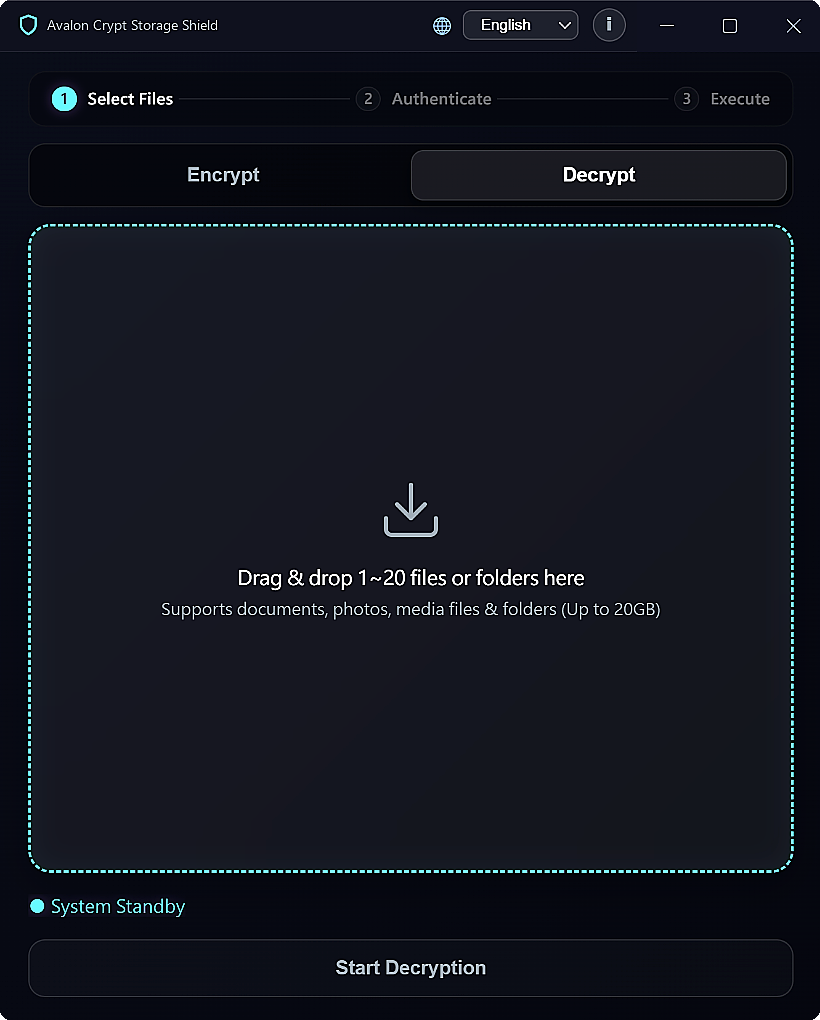
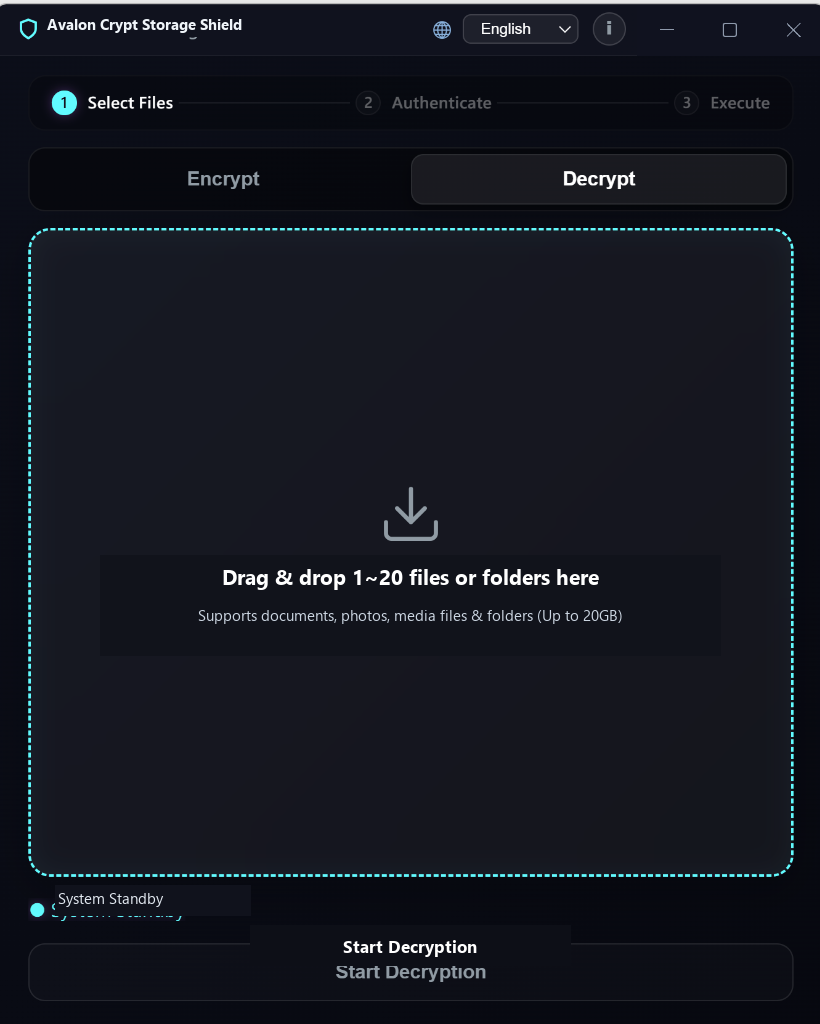
Add files via upload

diff --git a/index.html b/index.html
@@ -595,23 +595,6 @@
             opacity: 1;
         }
 
-        .window-tag {
-            text-align: center;
-            font-size: 0.75rem;
-            color: var(--cyan);
-            margin-top: 10px;
-            font-weight: 500;
-            display: flex;
-            align-items: center;
-            justify-content: center;
-            gap: 6px;
-            transition: color 0.3s ease;
-        }
-
-        .window-tag.purple-tag {
-            color: var(--purple);
-        }
-
         /* --- SECTION BASE STYLING --- */
         section {
             padding: 90px 0;
@@ -1117,6 +1100,14 @@
             .sha-info { justify-content: center; }
             .copy-btn { width: 100%; justify-content: center; }
         }
+            @media print {
+            body {
+                -webkit-print-color-adjust: exact !important;
+                print-color-adjust: exact !important;
+                background-color: #0a0e1a !important;
+                color: #ffffff !important;
+            }
+        }
     </style>
 </head>
 <body>
@@ -1225,13 +1216,10 @@
                             </button>
                         </div>
 
-                        <!-- 軟體實機視窗主體 (青軌英文 / 紫軌繁中，皆帶發光虛線框) -->
+                        <!-- 軟體實機視窗主體 (青軌英文 / 紫軌繁中，全亮虛線光框，無多餘底標) -->
                         <div class="app-window-frame cyan-glow" id="hero-window-frame">
                             <img id="hero-img-encrypt" class="hero-screen active" src="01_app_track_cyan_en.png" alt="Avalon Crypt 科技青軌 (English UI)">
                             <img id="hero-img-decrypt" class="hero-screen" src="02_app_track_purple_zh.png" alt="Avalon Crypt 防護紫軌 (繁中介面)">
-                            <div class="window-tag" id="hero-window-tag">
-                                <span id="hero-tag-text" data-i18n="hero_tag_encrypt">● 科技青軌模式 (English UI)</span>
-                            </div>
                         </div>
                     </div>
                 </div>
@@ -1475,6 +1463,13 @@
         </div>
     </footer>
 
+        <!-- 右下角深色微光懸浮「返回頂端」按鈕 -->
+    <button id="backToTop" class="back-to-top-btn" onclick="scrollToTop()" aria-label="Back to top" title="回到頂端">
+        <svg width="20" height="20" viewBox="0 0 24 24" fill="none" stroke="currentColor" stroke-width="2.5" stroke-linecap="round" stroke-linejoin="round">
+            <polyline points="18 15 12 9 6 15"></polyline>
+        </svg>
+    </button>
+
     <!-- Toast 提示組件 -->
     <div id="toast" class="toast">
         <span id="toast-icon">✓</span>
@@ -1643,7 +1638,7 @@
             localStorage.setItem('avalon_lang', lang);
         }
 
-        // Hero 雙軌即時切換 (青軌英文 / 紫軌繁中，無 .png 檔名，帶呼吸微光)
+        // Hero 雙軌即時切換 (青軌英文 / 紫軌繁中，純粹視窗預覽，連動引導微光)
         function switchHeroTrack(type) {
             currentHeroTrack = type;
             const tabEncrypt = document.getElementById('hero-tab-encrypt');
@@ -1651,8 +1646,6 @@
             const imgEncrypt = document.getElementById('hero-img-encrypt');
             const imgDecrypt = document.getElementById('hero-img-decrypt');
             const frame = document.getElementById('hero-window-frame');
-            const tagText = document.getElementById('hero-tag-text');
-            const winTag = document.getElementById('hero-window-tag');
             const hint = document.getElementById('hero-track-hint');
 
             if (type === 'encrypt') {
@@ -1662,14 +1655,10 @@
                 imgDecrypt.classList.remove('active');
                 frame.classList.add('cyan-glow');
                 frame.classList.remove('purple-glow');
-                winTag.classList.remove('purple-tag');
                 if (hint) {
                     hint.classList.remove('purple-hint');
                     hint.classList.add('cyan-hint');
                 }
-                tagText.innerText = currentLang === 'zh'
-                    ? "● 科技青軌模式 (English UI)"
-                    : "● Cyan Track Mode (English UI)";
             } else {
                 tabDecrypt.classList.add('active');
                 tabEncrypt.classList.remove('active');
@@ -1677,14 +1666,10 @@
                 imgEncrypt.classList.remove('active');
                 frame.classList.add('purple-glow');
                 frame.classList.remove('cyan-glow');
-                winTag.classList.add('purple-tag');
                 if (hint) {
                     hint.classList.add('purple-hint');
                     hint.classList.remove('cyan-hint');
                 }
-                tagText.innerText = currentLang === 'zh'
-                    ? "● 防護紫軌模式 (繁中介面)"
-                    : "● Purple Track Mode (zh-TW Native UI)";
             }
         }
 
@@ -1746,6 +1731,23 @@
             setTimeout(() => {
                 toast.style.display = 'none';
             }, 3500);
+        }
+
+                // 滾動監聽：超過 350px 顯示返回頂端按鈕
+        const backToTopBtn = document.getElementById('backToTop');
+        window.addEventListener('scroll', () => {
+            if (window.scrollY > 350) {
+                backToTopBtn.classList.add('visible');
+            } else {
+                backToTopBtn.classList.remove('visible');
+            }
+        });
+
+        function scrollToTop() {
+            window.scrollTo({
+                top: 0,
+                behavior: 'smooth'
+            });
         }
 
         // 初始載入語言
